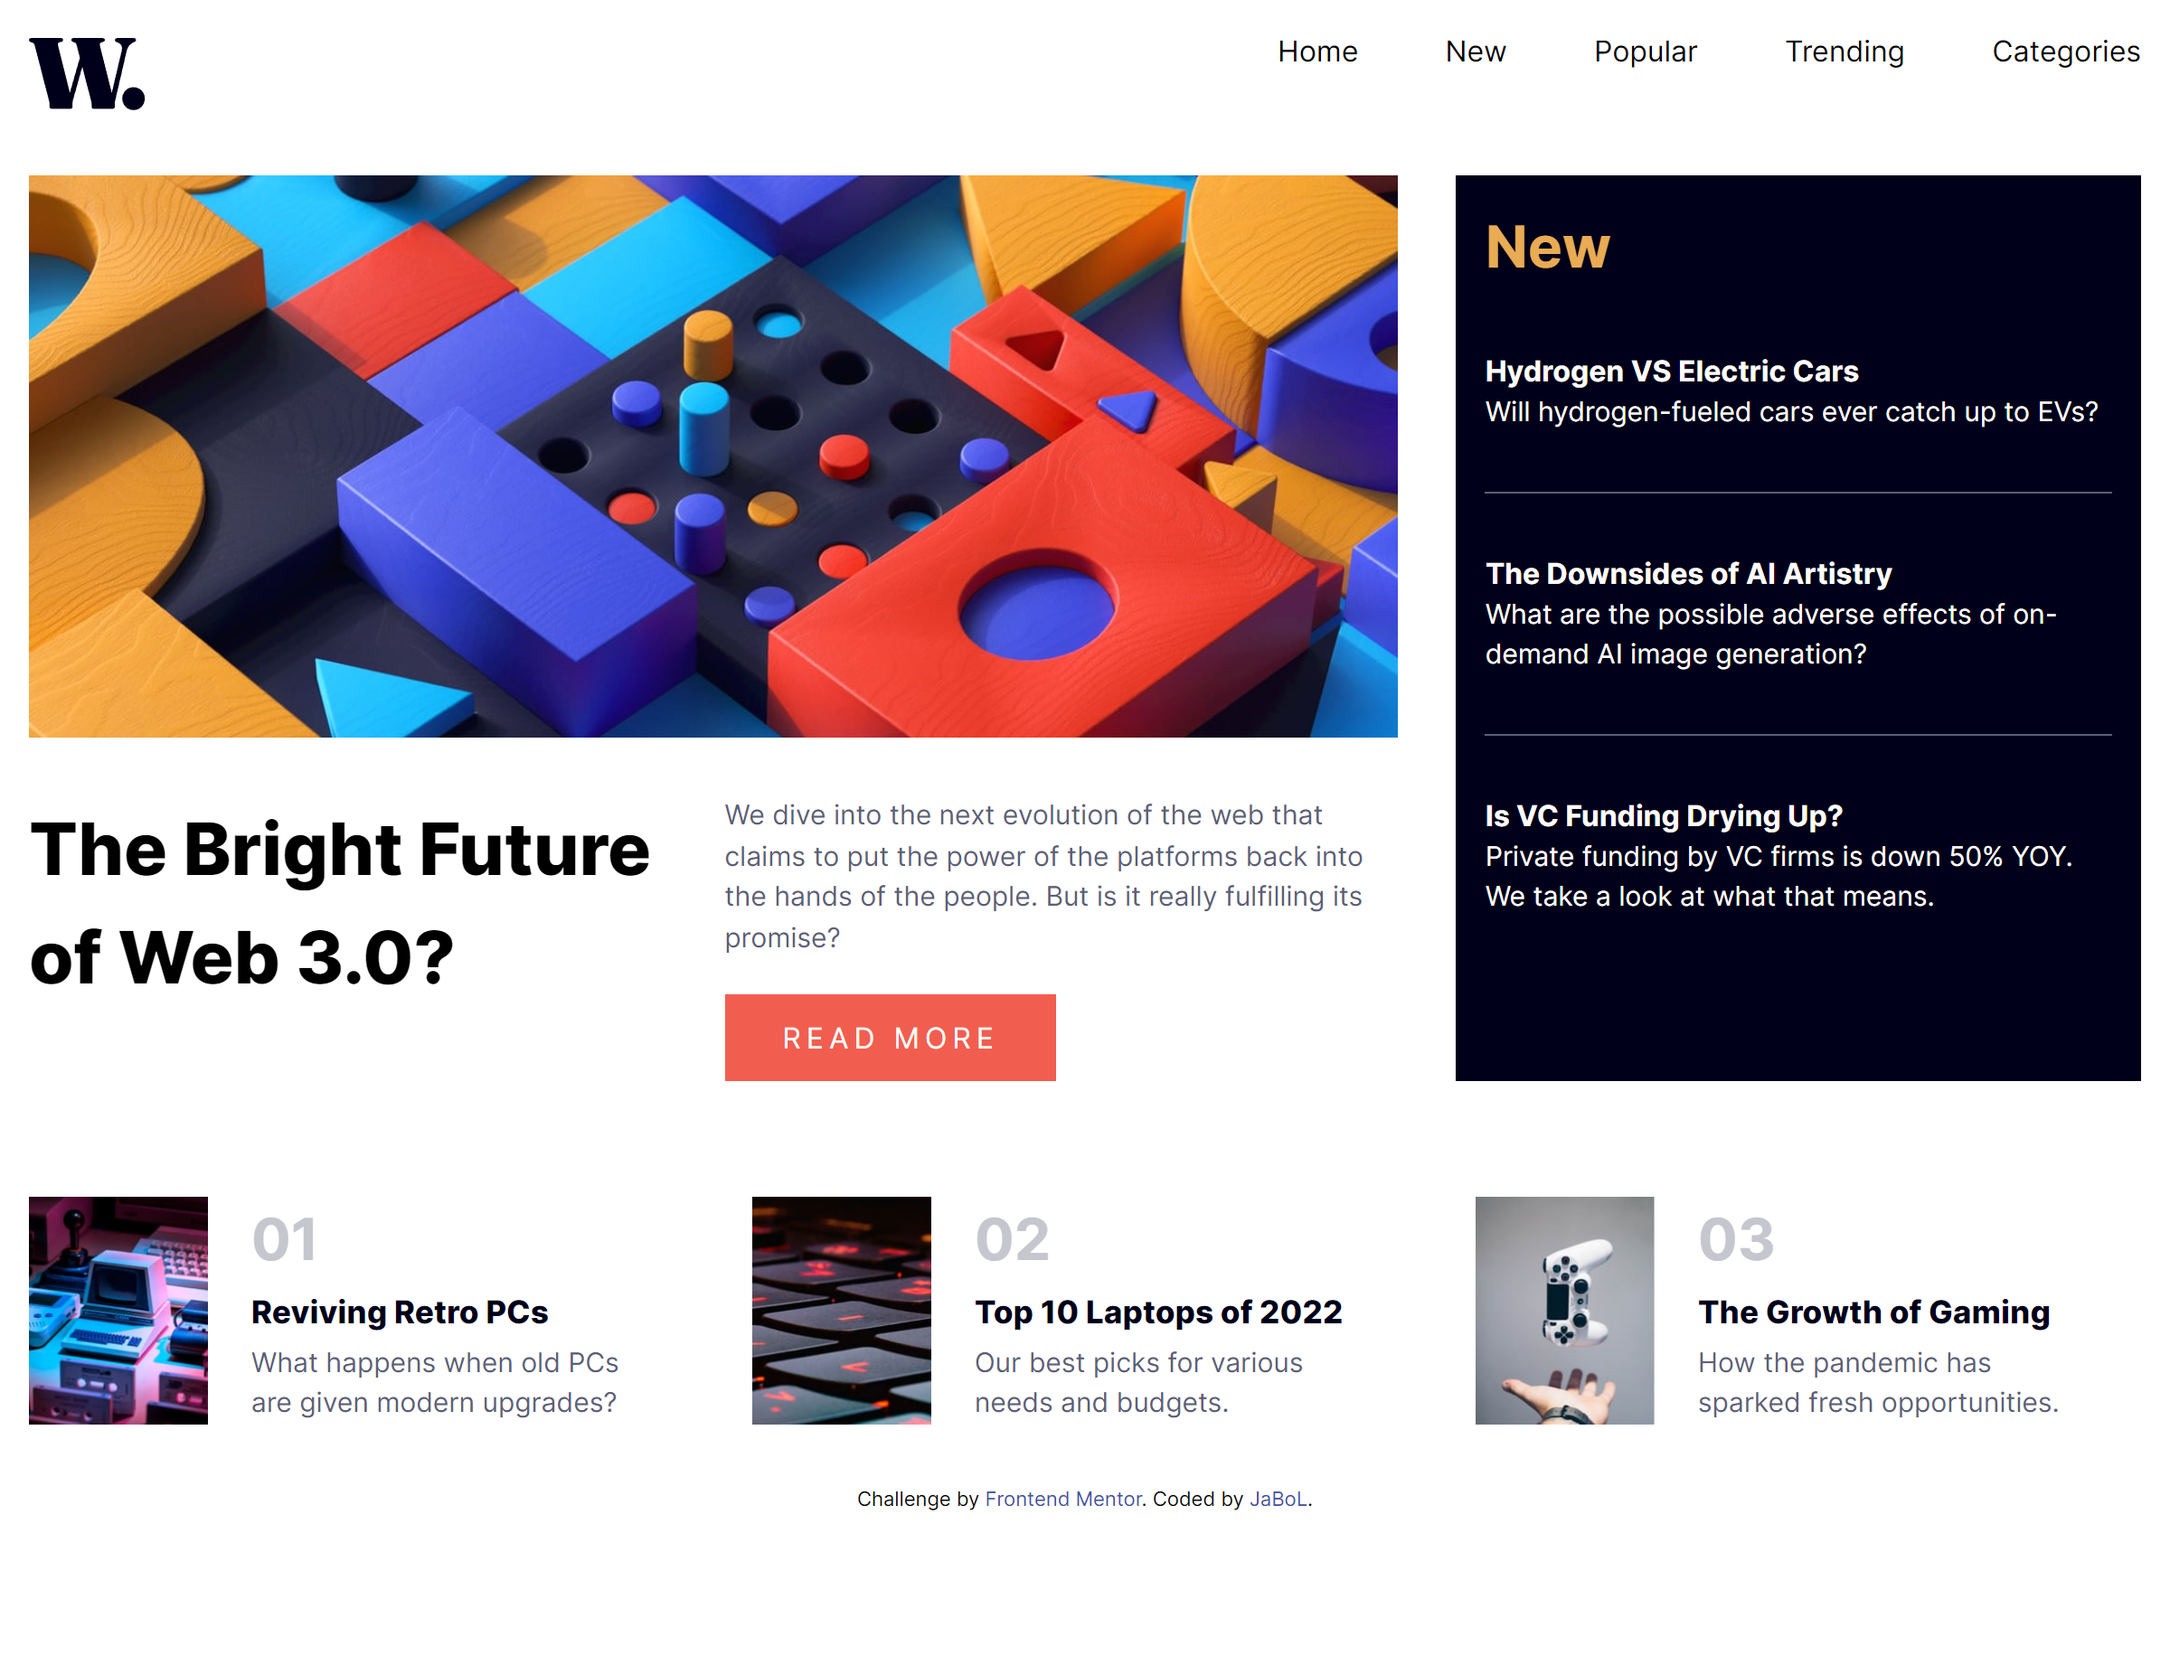
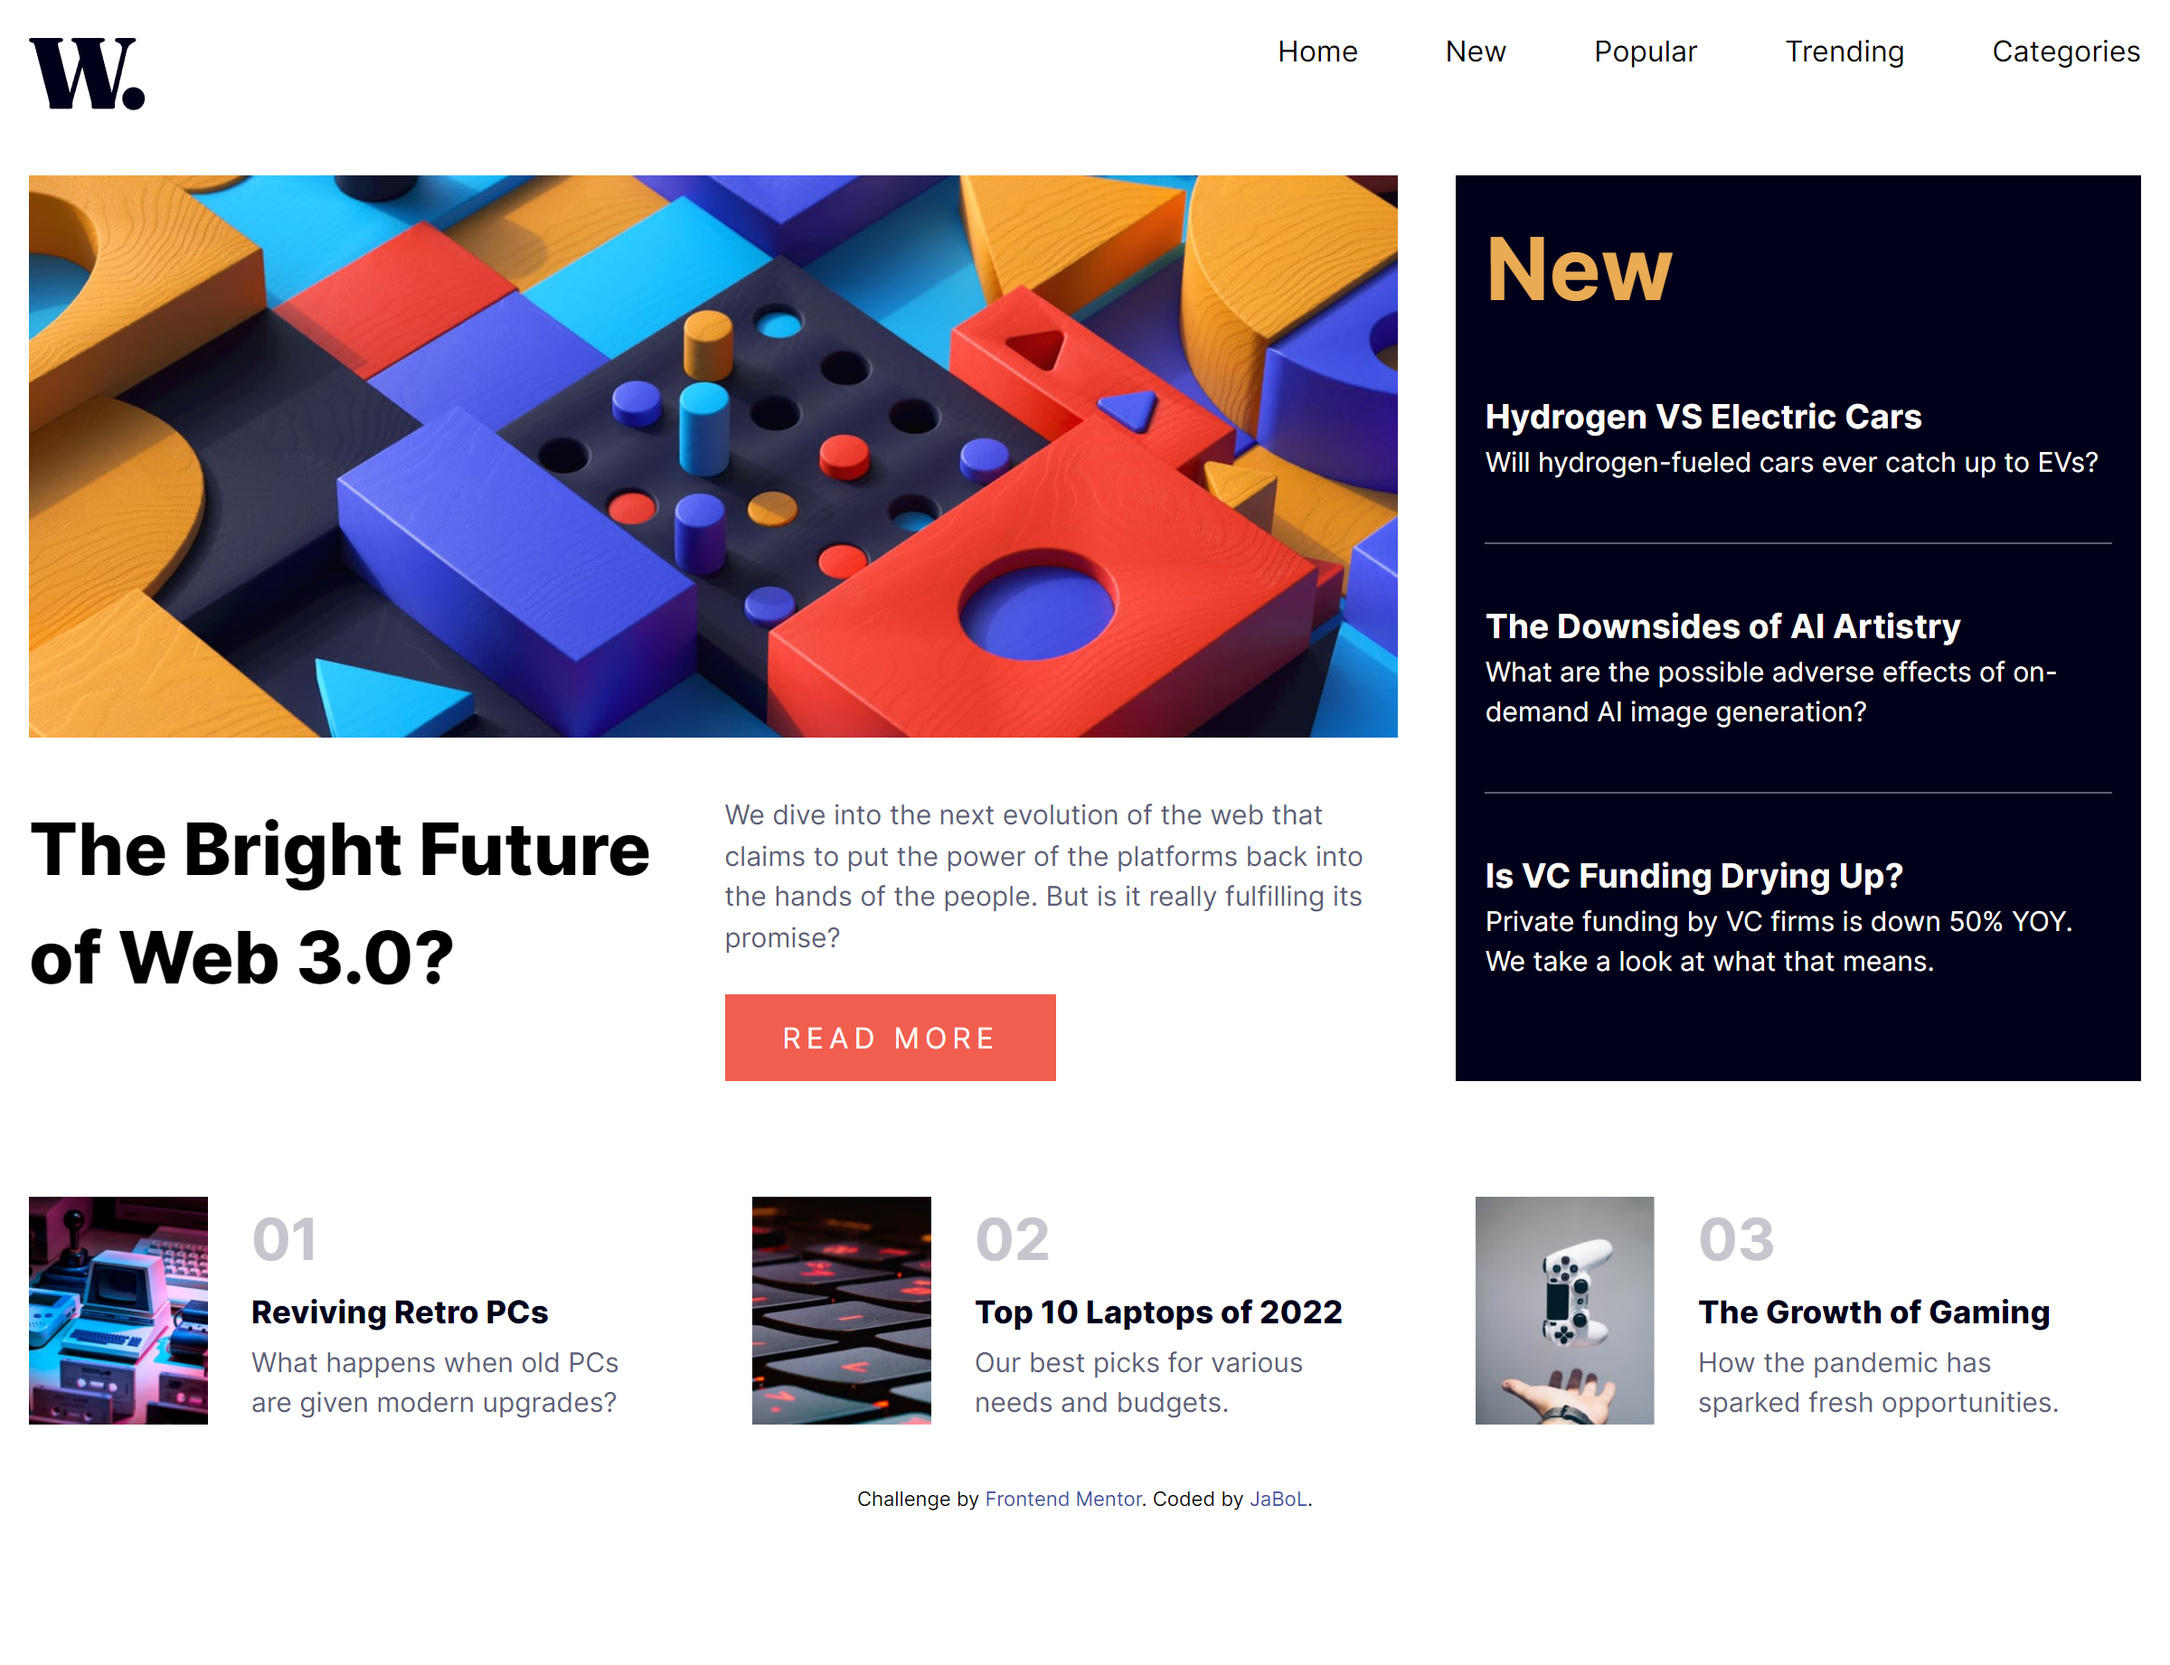
update

diff --git a/index.html b/index.html
@@ -59,24 +59,24 @@
       <div class="right">
         <h2 class="right-title">New</h2>
         <article class="right-articles">
-          <a class="right-links hover-orange" href="#"
-            >Hydrogen VS Electric Cars</a
-          >
+          <h3 class="right-links hover-orange" href="#">
+            Hydrogen VS Electric Cars
+          </h3>
           <p>Will hydrogen-fueled cars ever catch up to EVs?</p>
         </article>
         <article class="right-articles">
-          <a class="right-links hover-orange" href="#"
-            >The Downsides of AI Artistry</a
-          >
+          <h3 class="right-links hover-orange" href="#">
+            The Downsides of AI Artistry
+          </h3>
           <p>
             What are the possible adverse effects of on-demand AI image
             generation?
           </p>
         </article>
         <article class="right-articles">
-          <a class="right-links hover-orange" href="#"
-            >Is VC Funding Drying Up?</a
-          >
+          <h3 class="right-links hover-orange" href="#">
+            Is VC Funding Drying Up?
+          </h3>
           <p>
             Private funding by VC firms is down 50% YOY. We take a look at what
             that means.
@@ -91,7 +91,7 @@
           </div>
           <div class="bottom-text-con flex">
             <p class="bottom-text-num">01</p>
-            <a class="bottom-links hover-red" href="#">Reviving Retro PCs</a>
+            <h3 class="bottom-links hover-red" href="#">Reviving Retro PCs</h3>
             <p class="bottom-text">
               What happens when old PCs are given modern upgrades?
             </p>
@@ -103,9 +103,9 @@
           </div>
           <div class="bottom-text-con flex">
             <p class="bottom-text-num">02</p>
-            <a class="bottom-links hover-red" href="#"
-              >Top 10 Laptops of 2022</a
-            >
+            <h3 class="bottom-links hover-red" href="#">
+              Top 10 Laptops of 2022
+            </h3>
             <p class="bottom-text">
               Our best picks for various needs and budgets.
             </p>
@@ -117,7 +117,9 @@
           </div>
           <div class="bottom-text-con flex">
             <p class="bottom-text-num">03</p>
-            <a class="bottom-links hover-red" href="#">The Growth of Gaming</a>
+            <h3 class="bottom-links hover-red" href="#">
+              The Growth of Gaming
+            </h3>
             <p class="bottom-text">
               How the pandemic has sparked fresh opportunities.
             </p>

diff --git a/css/index.css b/css/index.css
@@ -273,7 +273,7 @@ ul {
   }
 
   .right-title {
-    font-size: 2rem;
+    font-size: 3rem;
   }
 
   .bottom {

diff --git a/README.md b/README.md
@@ -29,7 +29,7 @@ Users should be able to:
 ### Links
 
 - Solution URL: [Add solution URL here](https://your-solution-url.com)
-- Live Site URL: [Add live site URL here](https://your-live-site-url.com)
+- Live Site URL: [Website](https://c-h-a-r-m-a-n-d-e-r.github.io/news-homepage/)
 
 ## My process
 
